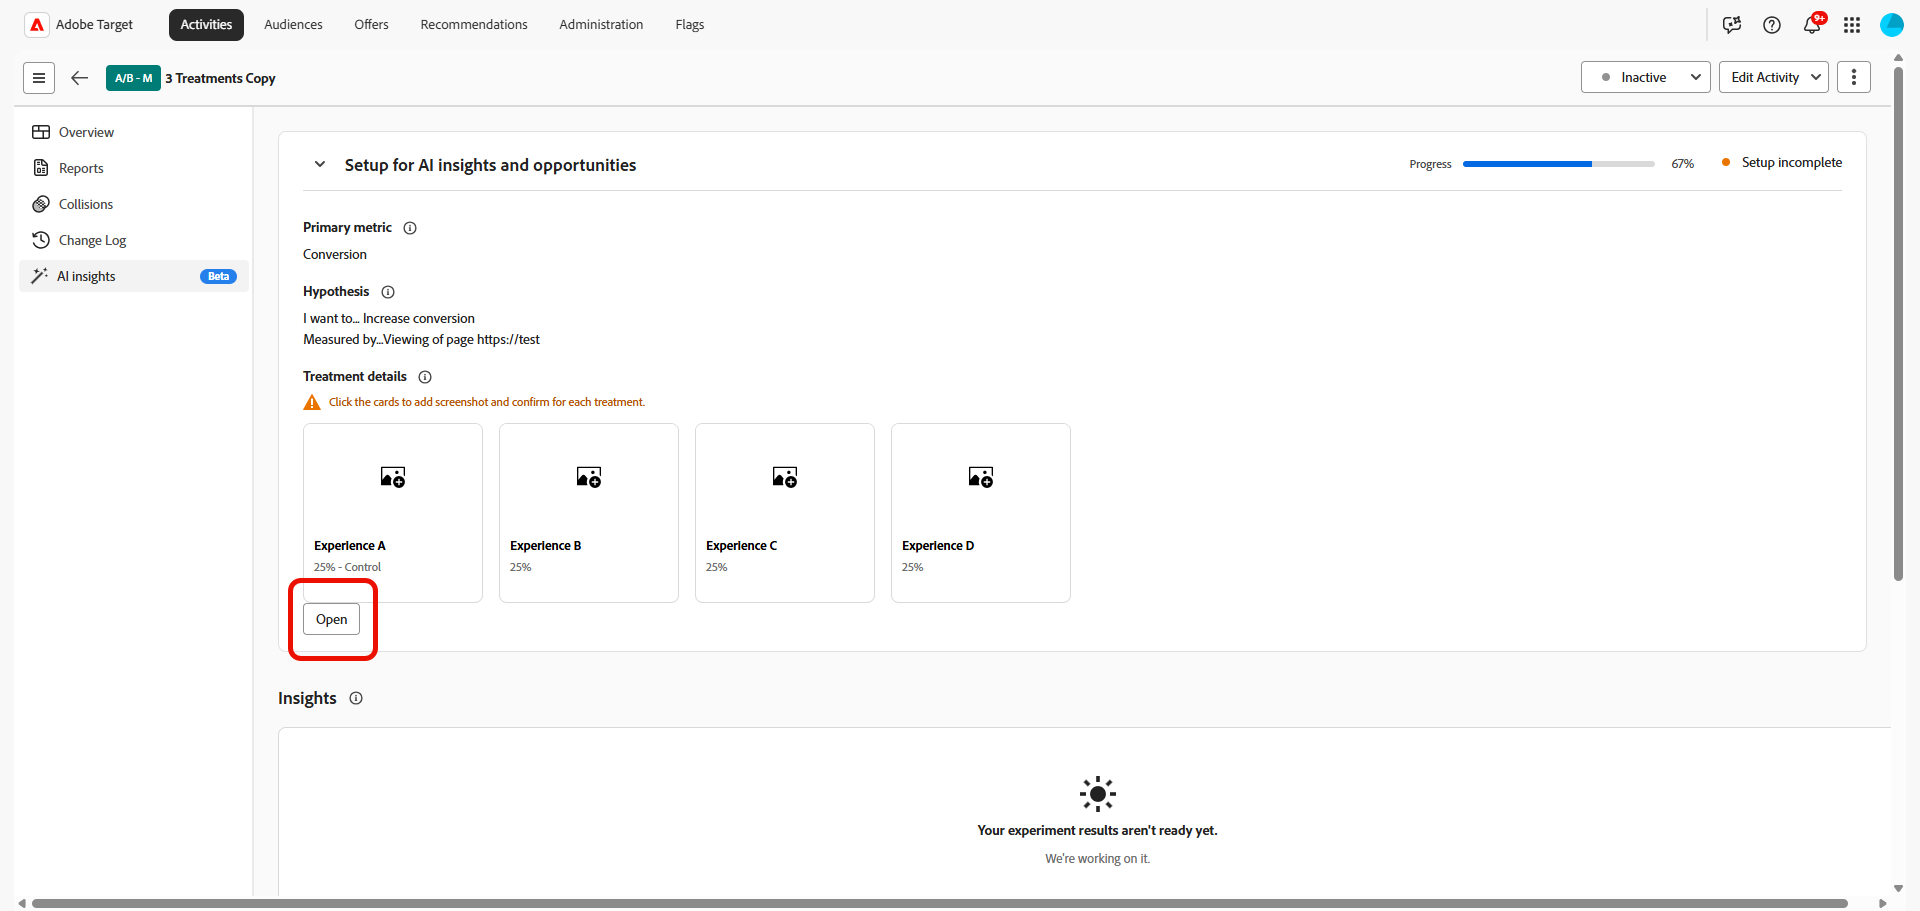
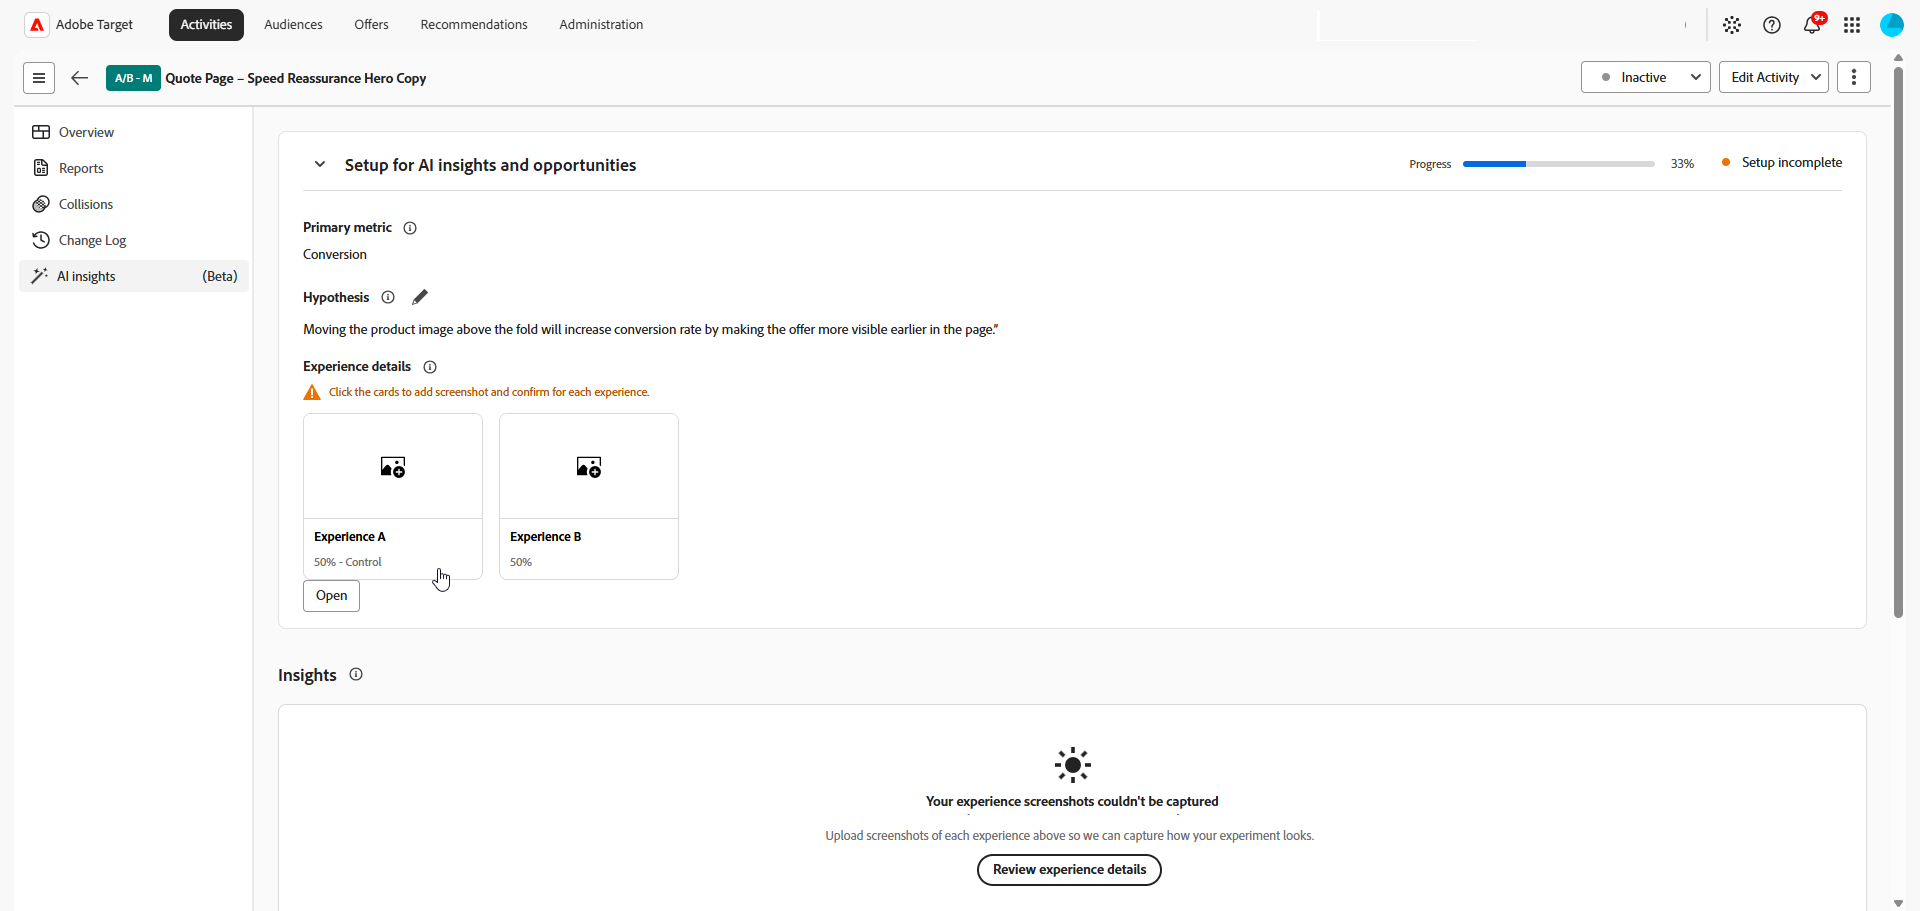
in progress

diff --git a/help/main/c-activities/ai-insights.md b/help/main/c-activities/ai-insights.md
@@ -8,9 +8,9 @@ feature: Activities
 
 >[!AVAILABILITY]
 >
->The [!UICONTROL AI insights] tab is available only for organizations and activities enabled for the Experimentation Accelerator integration.
+>The [!UICONTROL AI insights] tab is available only for A/B activities enabled for the Experimentation Accelerator integration.
 
-The **[!UICONTROL AI insights]** menu in your [!UICONTROL Activity Overview] provides access to insights and optimization opportunities from **[!UICONTROL Experimentation Accelerator]**. Use this tab to review experiment learnings, compare treatments, and identify changes that might improve conversion rates.
+The **[!UICONTROL AI insights]** menu in your **[!UICONTROL Activity Overview]** provides access to insights and optimization opportunities from **[!UICONTROL Experimentation Accelerator]**. Use this tab to review experiment learnings, compare treatments, and identify changes that might improve conversion rates.
 
 ➡ [Learn more in Experimentation Accelerator documentation](https://experienceleague.adobe.com/en/docs/experimentation-accelerator/using/overview)
 
@@ -31,49 +31,56 @@ The **[!UICONTROL AI insights]** menu in your [!UICONTROL Activity Overview] pro
 >title="Treatment details"
 >abstract="Treatment details show images of what a treatment looks like when a user qualifies for it. You can review these images for all experiments. Some experiments may ask you to confirm the image or replace it if needed."
 
-The [!UICONTROL AI insights] tab can display AI-generated experiment insights and optimization opportunities in cards. The cards help you review the results of an experiment and identify potential follow-up treatments.
+Before you can access AI-generated insights and opportunities, you first need to set up your activity by confirming the primary metric, hypothesis, and treatment screenshots.
 
-The available cards depend on how you set up your Goals & Settings. [Learn more](../c-activities/t-test-ab/t-test-create-ab/ab-goals-and-settings.md)
+The primary metric and hypothesis are automatically pulled from the reporting settings and depend on how you set up your Goals & Settings. [Learn more](../c-activities/t-test-ab/t-test-create-ab/ab-goals-and-settings.md)
 
 1. Open your activity in [!DNL Adobe Target].
 
-1. Select the **[!UICONTROL AI insights]** menu.
+1. Select the **[!UICONTROL AI insights]** menu to open the configuration panel.
 
-1. Click **[!UICONTROL Open]** to add screenshot.
+1. Click ![](assets/do-not-localize/Smock_Edit_18_N.svg) to create a hypothesis for your experiment.
+
+    ![](assets/ai-insights-7.png)
+
+1. Type in your hypothesis by describing the changes that were made and how they will impact the primary metric.
+
+    Click **[!UICONTROL Save]**.
+
+1. Under **[!UICONTROL Experience details]**, click a card to add a screenshot for your treatments.
 
     ![](assets/ai-insights-1.png)
 
-1. Select **[!UICONTROL Upload image]** to upload a preferred screenshot from your local files for your Treatments.
+1. Select **[!UICONTROL Upload image]** to upload a preferred screenshot from your local files for each treatment.
 
     ![](assets/ai-insights-2.png)
 
-1. Once your treatment each has a screenshot, click **[!UICONTROL Confirm]**.
+1. Copy the preview link or open it directly to preview the experience.
+
+1. Once each experience has a screenshot, review the details and click **[!UICONTROL Confirm]** to complete setup.
 
 Once you finished configuring your AI insights and opportunities, you will to get valuable Insights and Opportunities.
 
 Insights are generated after the experiment has sufficient data for statistical validation and the required experiment details have been confirmed.
 
-## Supported activities and limitations
-
-The [!UICONTROL AI insights] tab is limited to activity types supported by the Experimentation Accelerator integration. Insights and opportunities might not be available for every activity or until the activity meets the required data and statistical conditions.
-
-The following conditions can affect what appears in the tab:
-
-* The Experimentation Accelerator integration must be enabled for your organization.
-* The activity must be an eligible experiment type.
-* The experiment must contain the data required to generate an insight or opportunity.
-* Statistical validation might be required before insights are generated.
-* Some recommendations might be limited to experiments with text-based changes.
-
-For information about planning experiment inputs, see [Sample Size Calculator](sample-size-calculator.md).
-
 ## Insights
-
 
 >[!CONTEXTUALHELP]
 >id="target_ai_insights"
 >title="Insights"
 >abstract="Experiment insights are the learnings found by AI when the experiment data has met statistical significance."
+
+Experiment insights are AI-generated learnings derived from this experiment. These insights become available once the experiment reaches statistical significance and provide context about what contributed to its success. They highlight the key attributes present in the winning treatment that are distinct from the control and likely influenced the outcome.
+
+1. Click the card to access the **[!UICONTROL Insights]** menu.
+
+    ![](assets/ai-insights-3.png)
+
+1. Browse through your AI-generated insights to review the experiment learning and compare the winning treatment against the control.
+
+    ![](assets/ai-insights-4.png)
+
+1. In **[!UICONTROL What made this treatment win?]**, review the details explaining why this treatment outperformed the control.
 
 ## Opportunities
 
@@ -81,3 +88,20 @@ For information about planning experiment inputs, see [Sample Size Calculator](s
 >id="target_ai_insights_opportunities"
 >title="Opportunities"
 >abstract="Experiment opportunities are AI suggested treatment ideas based on patterns AI found in your experiment screenshots and results."
+
+The **[!UICONTROL Opportunities]** panel shows AI-generated recommendations designed to improve test performance and align with broader business objectives and KPIs.
+
+1. Browse through the suggested opportunities and select the one you want to review.
+
+    ![](assets/ai-insights-5.png)
+
+1. Select an opportunity to open the Opportunity Details window, which outlines a specific treatment or variation. This view includes:
+
+    * An AI-generated hypothesis that explains the expected outcome of the suggested treatment and why it may improve performance.
+
+    * The expected outcome, including the projected impact level and how it aligns with your experiment goals.
+
+    * Guidance on how to implement the recommendation in your experience and measure the effect on the selected metric.
+
+    ![](assets/ai-insights-6.png)
+

diff --git a/help/main/c-activities/sample-size-calculator.md b/help/main/c-activities/sample-size-calculator.md
@@ -165,4 +165,6 @@ Estimate the planning inputs for an A/B activity that relies on Adobe Analytics 
 
 The **[!UICONTROL Result]** panel displays the estimate after you complete the required fields and run the calculation. If required fields are incomplete, the panel prompts you to enter the missing values.
 
+![](assets/calculator-cja-analytics-4.png)
+
 The calculator provides an estimate for planning an experiment. Use the result together with your experiment design, expected traffic, baseline performance, and statistical requirements when deciding how long to run the activity.
